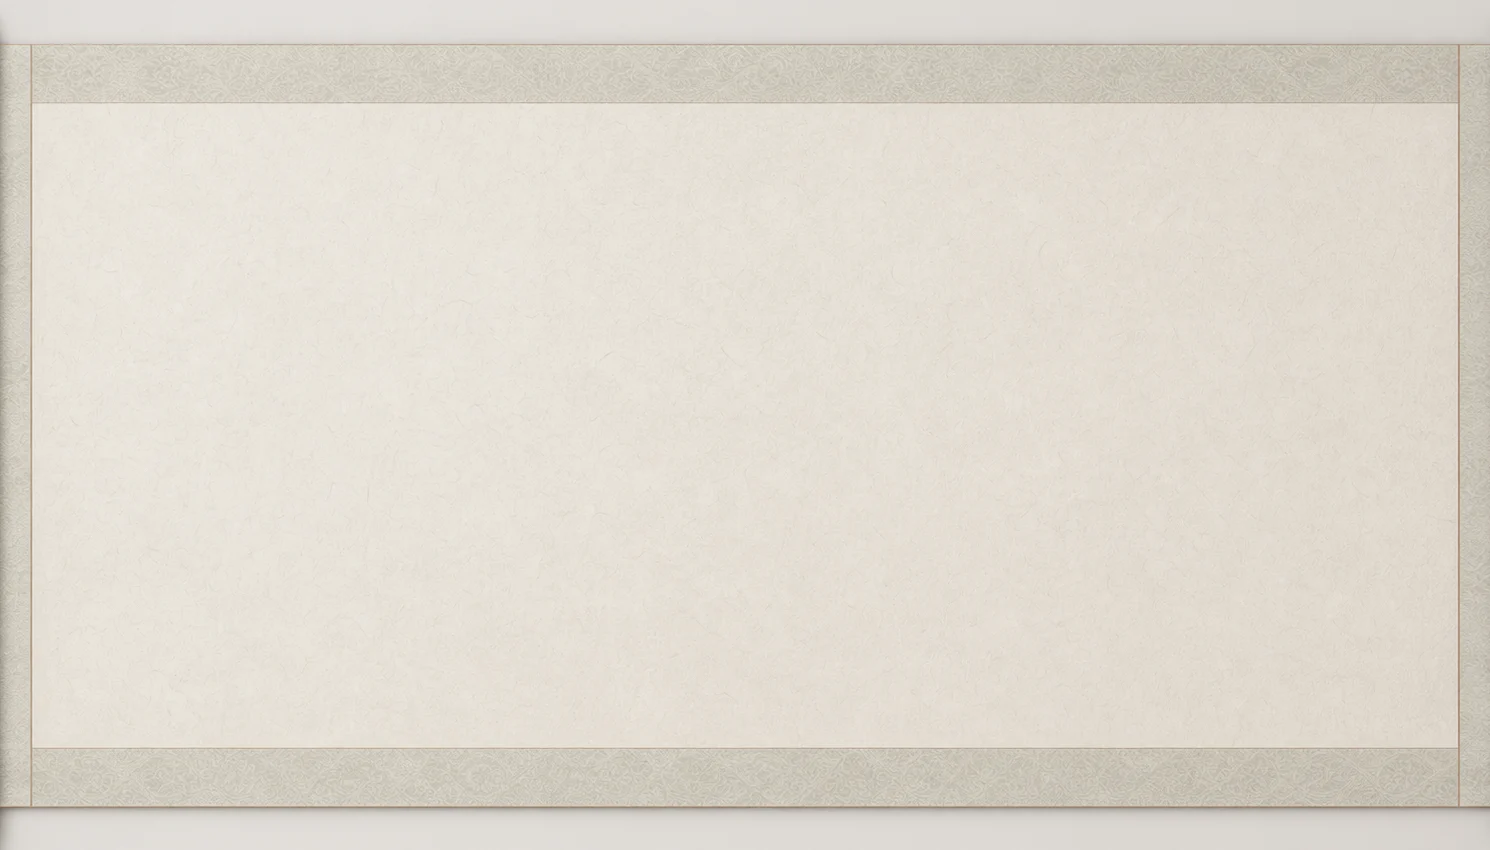
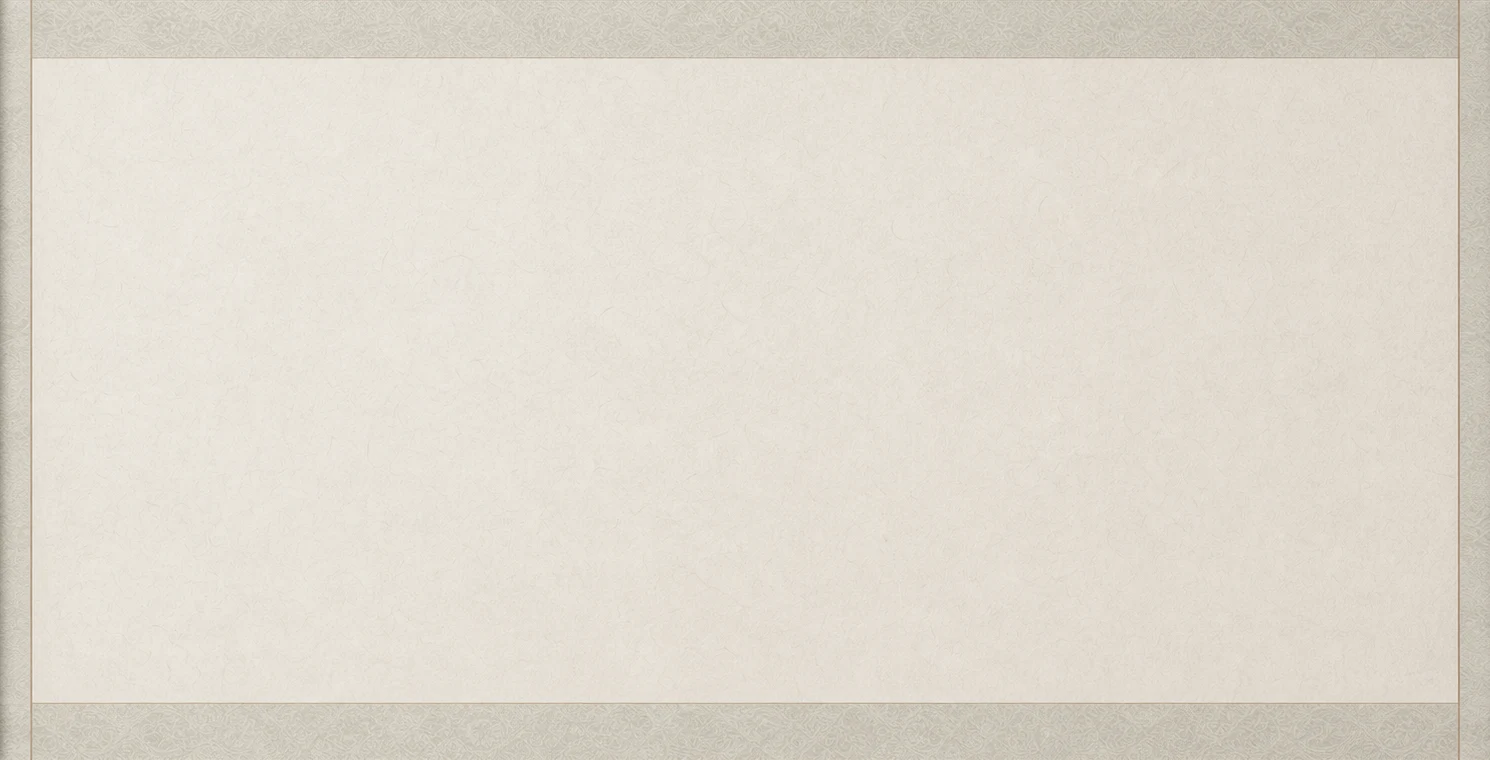
Fix scroll layout and add hexagram detail interactions

Changed region(s): [[0.0, 0.8776, 1.0, 1.0], [0.0, 0.0, 1.0, 0.1211]]

diff --git a/liuyao-study-github/app.js b/liuyao-study-github/app.js
@@ -92,86 +92,6 @@ function shuffle(a) { return [...a].sort(() => Math.random() - .5); }
 function setView(view) {
   state.view = view;
   document.querySelectorAll(".view").forEach(el => el.classList.toggle("active", el.id === view));
-
-
-const atlas0718State={palace:"乾",hexagram:0,contrast:0,contrastSide:null};
-const contrast0718Pairs=[
-  ["天地否","地天泰","阴阳不交 · 闭塞阻滞","阴阳交通 · 顺通和合"],
-  ["水火既济","火水未济","当下已成 · 防物极必反","当下未成 · 变化仍在酝酿"],
-  ["山天大畜","风天小畜","长周期积蓄与停留","短暂收敛与蓄力"],
-  ["山地剥","山泽损","从高处剥落下跌","内空、减少与亏损"],
-  ["坎为水","艮为山","险阻、深陷、坑坎","山重、难越、止步"],
-  ["火地晋","地风升","向前晋升，疾病问事防反取","向上晋升，疾病问事防反取"]
-];
-
-function find0718Hexagram(name){
-  for(const palaceKey of course0718.palaceOrder){
-    const index=course0718.palaces[palaceKey].hexagrams.findIndex(item=>item[0]===name);
-    if(index>=0)return {palaceKey,index,item:course0718.palaces[palaceKey].hexagrams[index]};
-  }
-  return null;
-}
-
-function render0718Yao(active=5){
-  const stack=document.querySelector("#yao0718Stack");
-  const inspector=document.querySelector("#yao0718Inspector");
-  if(!stack||!inspector)return;
-  stack.innerHTML=course0718.yao.map(x=>`<button type="button" data-yao0718="${x.n}" class="${x.n===active?"active":""}" style="--yao-delay:${(x.n-1)*.07}s"><i></i><b>${x.n}</b><span>${x.name}</span><small>${x.triad} · ${x.zone}</small></button>`).join("");
-  stack.querySelectorAll("[data-yao0718]").forEach(button=>button.addEventListener("click",()=>render0718Yao(Number(button.dataset.yao0718))));
-  const x=course0718.yao.find(item=>item.n===active);
-  const note=x.n===1?"第一次投掷放在最下方，六次投掷依次向上。":x.n===2?"二爻为贱位，与五爻尊位相对照。":x.n===5?"五爻为尊位，可取君位、中央、大环境或政策层。":"位置之象要随所问事项转换太极点。";
-  inspector.innerHTML=`<span>${x.zone} · ${x.triad}</span><h3>${x.name}</h3><strong>${x.cue}</strong><p>${note}</p>`;
-}
-
-function render0718Palace(palaceKey="乾",activeIndex=0){
-  const tabs=document.querySelector("#scroll0718PalaceTabs");
-  const meta=document.querySelector("#scroll0718PalaceMeta");
-  const grid=document.querySelector("#scroll0718GuaGrid");
-  const content=document.querySelector("#lecture0718 .scroll-atlas-content");
-  if(!tabs||!meta||!grid)return;
-  atlas0718State.palace=palaceKey;atlas0718State.hexagram=activeIndex;
-  const palace=course0718.palaces[palaceKey];
-  tabs.innerHTML=course0718.palaceOrder.map((key,index)=>{const p=course0718.palaces[key];return `<button type="button" data-palace0718="${key}" class="${key===palaceKey?"active":""} ${p.status==="pending-meaning"?"pending":""}"><b>${key}</b><small>${String(index+1).padStart(2,"0")} · ${p.element}${p.status==="pending-meaning"?" · 待补释义":""}</small></button>`}).join("");
-  tabs.querySelectorAll("[data-palace0718]").forEach(button=>button.addEventListener("click",()=>{
-    const next=button.dataset.palace0718;
-    if(next===atlas0718State.palace)return;
-    content?.classList.add("is-switching");
-    setTimeout(()=>{render0718Palace(next,0);requestAnimationFrame(()=>content?.classList.remove("is-switching"));},120);
-  }));
-  meta.innerHTML=`<span>先天序 ${String(course0718.palaceOrder.indexOf(palaceKey)+1).padStart(2,"0")} · 宫五行${palace.element}</span><h3>${palaceKey}宫</h3><strong>${palace.theme}</strong><p>${palace.status==="pending-meaning"?"本宫八卦的卦名、卦象与宫内序位已列入；课堂取象等待陈师下节课补充。":"本宫八卦按固定序位排列。先辨卦象，再记宫位与核心取象。"}</p><em>${course0718.palaceStages.join(" → ")}</em>`;
-  grid.innerHTML=palace.hexagrams.map((h,index)=>`<button type="button" data-gua0718="${index}" class="scroll-gua-card ${index===activeIndex?"active":""} ${palace.status==="pending-meaning"?"pending":""}"><small>${String(index+1).padStart(2,"0")} · ${course0718.palaceStages[index]}</small><span class="scroll-gua-glyph">${h[1]}</span><b>${h[0]}</b><p>${h[2]}</p><i>${palaceKey}宫 · ${palace.element}</i></button>`).join("");
-  grid.querySelectorAll("[data-gua0718]").forEach(button=>button.addEventListener("click",()=>render0718Palace(palaceKey,Number(button.dataset.gua0718))));
-}
-
-function render0718Contrasts(activePair=0,activeSide=null){
-  const tabs=document.querySelector("#scroll0718ContrastTabs");
-  const book=document.querySelector("#scroll0718ContrastBook");
-  if(!tabs||!book)return;
-  atlas0718State.contrast=activePair;atlas0718State.contrastSide=activeSide;
-  tabs.innerHTML=contrast0718Pairs.map((pair,index)=>`<button type="button" data-contrast0718="${index}" class="${index===activePair?"active":""}"><b>${String(index+1).padStart(2,"0")}</b><span>${pair[0]} / ${pair[1]}</span></button>`).join("");
-  tabs.querySelectorAll("[data-contrast0718]").forEach(button=>button.addEventListener("click",()=>render0718Contrasts(Number(button.dataset.contrast0718),null)));
-  const pair=contrast0718Pairs[activePair];
-  const left=find0718Hexagram(pair[0]),right=find0718Hexagram(pair[1]);
-  const page=(info,side,cue)=>`<button type="button" data-contrast-side="${side}" class="scroll-contrast-page ${activeSide===side?"active":""} ${activeSide&&activeSide!==side?"dim":""}"><span class="scroll-contrast-glyph">${info.item[1]}</span><div><small>${info.palaceKey}宫 · 第${String(info.index+1).padStart(2,"0")}卦</small><h3>${info.item[0]}</h3><strong>${cue}</strong><p>${info.item[2]}</p></div></button>`;
-  book.innerHTML=`${page(left,"left",pair[2])}<i>⇄</i>${page(right,"right",pair[3])}`;
-  book.querySelectorAll("[data-contrast-side]").forEach(button=>button.addEventListener("click",event=>{event.stopPropagation();const side=button.dataset.contrastSide;render0718Contrasts(activePair,activeSide===side?null:side)}));
-  book.addEventListener("click",()=>render0718Contrasts(activePair,null),{once:true});
-}
-
-function replay0718Scroll(){
-  const shell=document.querySelector("#scroll0718Shell");
-  if(!shell)return;
-  shell.classList.remove("is-unrolling");
-  void shell.offsetWidth;
-  shell.classList.add("is-unrolling");
-}
-
-function render0718Atlas(){
-  render0718Yao(5);
-  render0718Palace(atlas0718State.palace,atlas0718State.hexagram);
-  render0718Contrasts(atlas0718State.contrast,atlas0718State.contrastSide);
-}
-
 document.querySelectorAll(".nav-item").forEach(el => el.classList.toggle("active", el.dataset.view === view));
   window.scrollTo({ top:0, behavior:"smooth" });
   if (view === "training" && !state.quiz) createQuiz();
@@ -969,7 +889,7 @@ function initImmersiveMotion(){
 
 
 
-const atlas0718State={palace:"乾",hexagram:0,contrast:0,contrastSide:null};
+const atlas0718State={palace:"乾",hexagram:null,contrast:0,contrastSide:null};
 const contrast0718Pairs=[
   ["天地否","地天泰","阴阳不交 · 闭塞阻滞","阴阳交通 · 顺通和合"],
   ["水火既济","火水未济","当下已成 · 防物极必反","当下未成 · 变化仍在酝酿"],
@@ -998,7 +918,7 @@ function render0718Yao(active=5){
   inspector.innerHTML=`<span>${x.zone} · ${x.triad}</span><h3>${x.name}</h3><strong>${x.cue}</strong><p>${note}</p>`;
 }
 
-function render0718Palace(palaceKey="乾",activeIndex=0){
+function render0718Palace(palaceKey="乾",activeIndex=null){
   const tabs=document.querySelector("#scroll0718PalaceTabs");
   const meta=document.querySelector("#scroll0718PalaceMeta");
   const grid=document.querySelector("#scroll0718GuaGrid");
@@ -1009,12 +929,19 @@ function render0718Palace(palaceKey="乾",activeIndex=0){
   tabs.innerHTML=course0718.palaceOrder.map((key,index)=>{const p=course0718.palaces[key];return `<button type="button" data-palace0718="${key}" class="${key===palaceKey?"active":""} ${p.status==="pending-meaning"?"pending":""}"><b>${key}</b><small>${String(index+1).padStart(2,"0")} · ${p.element}${p.status==="pending-meaning"?" · 待补释义":""}</small></button>`}).join("");
   tabs.querySelectorAll("[data-palace0718]").forEach(button=>button.addEventListener("click",()=>{
     const next=button.dataset.palace0718;
-    if(next===atlas0718State.palace)return;
     content?.classList.add("is-switching");
-    setTimeout(()=>{render0718Palace(next,0);requestAnimationFrame(()=>content?.classList.remove("is-switching"));},120);
+    setTimeout(()=>{render0718Palace(next,null);requestAnimationFrame(()=>content?.classList.remove("is-switching"));},120);
   }));
-  meta.innerHTML=`<span>先天序 ${String(course0718.palaceOrder.indexOf(palaceKey)+1).padStart(2,"0")} · 宫五行${palace.element}</span><h3>${palaceKey}宫</h3><strong>${palace.theme}</strong><p>${palace.status==="pending-meaning"?"本宫八卦的卦名、卦象与宫内序位已列入；课堂取象等待陈师下节课补充。":"本宫八卦按固定序位排列。先辨卦象，再记宫位与核心取象。"}</p><em>${course0718.palaceStages.join(" → ")}</em>`;
-  grid.innerHTML=palace.hexagrams.map((h,index)=>`<button type="button" data-gua0718="${index}" class="scroll-gua-card ${index===activeIndex?"active":""} ${palace.status==="pending-meaning"?"pending":""}"><small>${String(index+1).padStart(2,"0")} · ${course0718.palaceStages[index]}</small><span class="scroll-gua-glyph">${h[1]}</span><b>${h[0]}</b><p>${h[2]}</p><i>${palaceKey}宫 · ${palace.element}</i></button>`).join("");
+  if(Number.isInteger(activeIndex)){
+    const h=palace.hexagrams[activeIndex];
+    const stage=course0718.palaceStages[activeIndex];
+    meta.classList.add("is-hexagram-detail");
+    meta.innerHTML=`<span class="scroll-detail-kicker">单卦取象 · ${palaceKey}宫 · ${stage}</span><div class="scroll-detail-glyph" aria-hidden="true">${h[1]}</div><h3>${h[0]}</h3><strong>${h[2]}</strong><div class="scroll-detail-block"><b>意象提示</b><p>${h[3]}</p></div><em>${palaceKey}宫 · 宫五行${palace.element} · 第${String(activeIndex+1).padStart(2,"0")}卦</em>`;
+  }else{
+    meta.classList.remove("is-hexagram-detail");
+    meta.innerHTML=`<span>先天序 ${String(course0718.palaceOrder.indexOf(palaceKey)+1).padStart(2,"0")} · 宫五行${palace.element}</span><h3>${palaceKey}宫</h3><strong>${palace.theme}</strong><p>${palace.status==="pending-meaning"?"本宫八卦的卦名、卦象与宫内序位已列入；课堂取象等待陈师下节课补充。":"本宫八卦按固定序位排列。先辨卦象，再记宫位与核心取象。"}</p><small>点击右侧任一卦，可展开该卦的核心解释与意象提示。</small><em>${course0718.palaceStages.join(" → ")}</em>`;
+  }
+  grid.innerHTML=palace.hexagrams.map((h,index)=>`<button type="button" data-gua0718="${index}" class="scroll-gua-card ${index===activeIndex?"active":""} ${palace.status==="pending-meaning"?"pending":""}" style="--card-delay:${index*.045}s"><small>${String(index+1).padStart(2,"0")} · ${course0718.palaceStages[index]}</small><span class="scroll-gua-glyph">${h[1]}</span><b>${h[0]}</b><p>${h[2]}</p><i>${palaceKey}宫 · ${palace.element}</i></button>`).join("");
   grid.querySelectorAll("[data-gua0718]").forEach(button=>button.addEventListener("click",()=>render0718Palace(palaceKey,Number(button.dataset.gua0718))));
 }
 

diff --git a/liuyao-study-github/styles.css b/liuyao-study-github/styles.css
@@ -337,7 +337,7 @@ button,.branch-card,.map-switcher,.relationship-lab{position:relative;overflow:h
 .atlas-yao-layout{display:grid;grid-template-columns:minmax(350px,.9fr) minmax(390px,1.1fr);gap:clamp(28px,6vw,92px);align-items:center;padding:clamp(30px,5vw,70px);border:1px solid var(--scroll-line);background:linear-gradient(135deg,rgba(255,255,255,.5),rgba(117,132,119,.07));box-shadow:0 30px 80px rgba(66,55,39,.09)}
 #yao0718Stack{display:flex;flex-direction:column;gap:11px}.yao-stack button[data-yao0718]{position:relative;display:grid;grid-template-columns:minmax(125px,1fr) 40px 70px minmax(120px,1fr);align-items:center;gap:16px;min-height:62px;padding:8px 16px;border:1px solid var(--scroll-line);background:rgba(248,244,235,.68);text-align:left;overflow:hidden;transition:transform .28s ease,border-color .28s,background .28s}.yao-stack button[data-yao0718]::before{content:"";position:absolute;inset:0 auto 0 0;width:4px;background:var(--scroll-red);transform:scaleY(0);transition:transform .28s}.yao-stack button[data-yao0718] i{display:block;height:10px;background:var(--scroll-ink);mask:linear-gradient(90deg,#000 0 44%,transparent 44% 56%,#000 56%);-webkit-mask:linear-gradient(90deg,#000 0 44%,transparent 44% 56%,#000 56%)}.yao-stack button[data-yao0718]:nth-child(odd) i{mask:none;-webkit-mask:none}.yao-stack button[data-yao0718] b{color:var(--scroll-red);font-size:12px}.yao-stack button[data-yao0718] span{font:700 22px "Songti SC"}.yao-stack button[data-yao0718] small{color:var(--muted)}.yao-stack button[data-yao0718]:hover,.yao-stack button[data-yao0718].active{transform:translateX(10px);border-color:rgba(167,68,50,.45);background:#f7f1e5}.yao-stack button[data-yao0718].active::before{transform:scaleY(1)}.yao-inspector{min-height:360px;display:flex;flex-direction:column;justify-content:center;padding:clamp(30px,5vw,68px);position:relative;background:var(--scroll-ink);color:#f7f1e7;box-shadow:24px 24px 0 rgba(117,132,119,.16)}.yao-inspector::after{content:"爻";position:absolute;right:24px;bottom:-20px;font:900 150px/1 "Songti SC";color:rgba(255,255,255,.035)}.yao-inspector>span{color:#d99b89;letter-spacing:.18em}.yao-inspector h3{font-size:clamp(46px,6vw,76px);margin:20px 0 10px}.yao-inspector strong{font-size:21px}.yao-inspector p{max-width:480px;color:#cfc5b5;line-height:1.9}
 
-.scroll-atlas-shell{position:relative;min-height:790px;margin-top:18px;isolation:isolate;overflow:visible}.scroll-unroll-mask{position:absolute;inset:0 48px;overflow:hidden;clip-path:inset(0 0 0 0);filter:drop-shadow(0 28px 42px rgba(52,43,30,.16));z-index:1}.scroll-paper{position:absolute;inset:0;background:#ede7da url("./assets/scroll-paper-0718.webp") center/100% 100% no-repeat;border-block:1px solid rgba(89,76,57,.26)}.scroll-paper::after{content:"";position:absolute;inset:10px 18px;border:1px solid rgba(116,126,111,.24);box-shadow:inset 0 0 70px rgba(115,98,72,.09);pointer-events:none}.scroll-atlas-content{position:relative;z-index:2;min-height:790px;padding:clamp(40px,4.6vw,68px) clamp(42px,5.5vw,82px);color:var(--scroll-ink)}
+.scroll-atlas-shell{position:relative;margin-top:18px;isolation:isolate;overflow:visible}.scroll-unroll-mask{position:relative;margin:0 48px;overflow:hidden;clip-path:inset(0 0 0 0);filter:drop-shadow(0 28px 42px rgba(52,43,30,.16));z-index:1}.scroll-paper{position:absolute;inset:0;background:#ede7da url("./assets/scroll-paper-0718.webp") center/100% 100% no-repeat;border-block:1px solid rgba(89,76,57,.26)}.scroll-paper::after{content:"";position:absolute;inset:10px 18px;border:1px solid rgba(116,126,111,.24);box-shadow:inset 0 0 70px rgba(115,98,72,.09);pointer-events:none}.scroll-atlas-content{position:relative;z-index:2;padding:clamp(40px,4.6vw,68px) clamp(42px,5.5vw,82px);color:var(--scroll-ink)}
 .scroll-roller{position:absolute;top:-14px;bottom:-14px;width:74px;z-index:4;background-position:center;background-size:100% 100%;background-repeat:no-repeat;filter:drop-shadow(0 18px 15px rgba(42,34,25,.26));pointer-events:none}.scroll-roller-left{left:12px;background-image:url("./assets/scroll-left-roller-0718.png")}.scroll-roller-right{right:12px;background-image:url("./assets/scroll-right-roller-0718.png")}
 .scroll-atlas-shell.is-unrolling .scroll-unroll-mask{animation:scroll-mask-open 1.58s cubic-bezier(.62,.02,.18,1) both}.scroll-atlas-shell.is-unrolling .scroll-roller-left{animation:scroll-left-open 1.58s cubic-bezier(.62,.02,.18,1) both}.scroll-atlas-shell.is-unrolling .scroll-roller-right{animation:scroll-right-open 1.58s cubic-bezier(.62,.02,.18,1) both}
 @keyframes scroll-mask-open{0%{clip-path:inset(0 50% 0 50%)}100%{clip-path:inset(0 0 0 0)}}
@@ -345,12 +345,12 @@ button,.branch-card,.map-switcher,.relationship-lab{position:relative;overflow:h
 @keyframes scroll-right-open{0%{right:calc(50% - 37px)}100%{right:12px}}
 .scroll-atlas-heading{display:flex;align-items:end;justify-content:space-between;gap:28px;padding-bottom:22px;border-bottom:1px solid rgba(77,68,56,.42)}.scroll-atlas-heading span,.scroll-palace-meta>span{color:var(--scroll-red);font-size:11px;font-weight:800;letter-spacing:.18em}.scroll-atlas-heading h3{font-size:clamp(30px,3.3vw,48px);margin-top:8px}.scroll-atlas-heading p{max-width:430px;color:var(--muted);line-height:1.7;text-align:right}
 .scroll-palace-tabs{display:grid;grid-template-columns:repeat(8,1fr);margin:16px 0 22px;border-block:1px solid var(--scroll-line)}.scroll-palace-tabs button{min-height:76px;padding:12px 8px;border:0;border-right:1px solid var(--scroll-line);background:rgba(255,255,255,.15);transition:background .25s,color .25s,transform .25s}.scroll-palace-tabs button:last-child{border-right:0}.scroll-palace-tabs b,.scroll-palace-tabs small{display:block}.scroll-palace-tabs b{font:800 24px "Songti SC"}.scroll-palace-tabs small{margin-top:5px;color:var(--muted);font-size:9px;white-space:nowrap}.scroll-palace-tabs button:hover{background:rgba(117,132,119,.12)}.scroll-palace-tabs button.active{background:var(--scroll-ink);color:#f8f1e6;transform:translateY(-3px);box-shadow:0 12px 24px rgba(42,35,27,.16)}.scroll-palace-tabs button.active small{color:#d9cdbd}.scroll-palace-tabs button.pending:not(.active) small{color:var(--scroll-red)}
-.scroll-palace-layout{display:grid;grid-template-columns:245px 1fr;gap:28px;align-items:start}.scroll-palace-meta{min-height:490px;padding:34px 28px;border-right:1px solid rgba(77,68,56,.25);display:flex;flex-direction:column}.scroll-palace-meta h3{font-size:58px;margin:18px 0 8px}.scroll-palace-meta strong{font:700 19px "Songti SC"}.scroll-palace-meta p{color:var(--muted);line-height:1.75}.scroll-palace-meta em{margin-top:auto;padding-top:22px;border-top:1px solid var(--scroll-red);color:var(--scroll-red);font-style:normal;font-size:11px;line-height:1.8}
-.scroll-gua-grid{display:grid;grid-template-columns:repeat(4,minmax(0,1fr));gap:12px}.scroll-gua-card{position:relative;min-height:235px;padding:16px 16px 14px;border:1px solid rgba(76,66,52,.17);background:rgba(249,246,238,.56);text-align:left;overflow:hidden;transition:transform .3s cubic-bezier(.2,.75,.2,1),box-shadow .3s,background .3s}.scroll-gua-card::after{content:"";position:absolute;left:0;right:100%;bottom:0;height:3px;background:var(--scroll-red);transition:right .35s}.scroll-gua-card:hover,.scroll-gua-card.active{transform:translateY(-6px);background:rgba(250,247,239,.92);box-shadow:0 18px 32px rgba(55,45,32,.13)}.scroll-gua-card.active::after,.scroll-gua-card:hover::after{right:0}.scroll-gua-card>small{display:block;color:var(--scroll-red);font-weight:800;font-size:10px}.scroll-gua-glyph{display:block;font-family:"Apple Symbols","Segoe UI Symbol",sans-serif;font-size:70px;line-height:1;margin:15px 0 10px}.scroll-gua-card>b{display:block;font:800 20px "Songti SC"}.scroll-gua-card p{min-height:36px;margin:7px 0;color:var(--muted);font-size:12px;line-height:1.5}.scroll-gua-card i{font-style:normal;color:var(--scroll-green);font-size:10px}.scroll-gua-card.pending p{color:var(--scroll-red)}
+.scroll-palace-layout{display:grid;grid-template-columns:265px 1fr;gap:28px;align-items:stretch}.scroll-palace-meta{min-height:490px;height:100%;padding:34px 28px;border-right:1px solid rgba(77,68,56,.25);display:flex;flex-direction:column}.scroll-palace-meta h3{font-size:clamp(40px,4.2vw,58px);margin:18px 0 8px}.scroll-palace-meta strong{font:700 19px "Songti SC";line-height:1.55}.scroll-palace-meta p{color:var(--muted);line-height:1.75}.scroll-palace-meta>small{display:block;margin-top:16px;color:var(--scroll-green);line-height:1.65}.scroll-palace-meta em{margin-top:auto;padding-top:22px;border-top:1px solid var(--scroll-red);color:var(--scroll-red);font-style:normal;font-size:11px;line-height:1.8}.scroll-detail-glyph{font-family:"Apple Symbols","Segoe UI Symbol",sans-serif;font-size:82px;line-height:1;margin:18px 0 2px;color:var(--scroll-ink);filter:drop-shadow(0 8px 13px rgba(45,37,28,.12));animation:gua-glyph-breathe 3.4s ease-in-out infinite}.scroll-palace-meta.is-hexagram-detail h3{margin-top:10px}.scroll-detail-block{margin:22px 0;padding:18px 0;border-block:1px solid var(--scroll-line)}.scroll-detail-block b{display:block;color:var(--scroll-red);font-size:11px;letter-spacing:.16em}.scroll-detail-block p{margin:10px 0 0;color:var(--muted)}
+.scroll-gua-grid{display:grid;grid-template-columns:repeat(4,minmax(0,1fr));gap:12px}.scroll-gua-card{position:relative;min-height:235px;padding:16px 16px 14px;border:1px solid rgba(76,66,52,.17);background:rgba(249,246,238,.56);text-align:left;overflow:hidden;transition:transform .3s cubic-bezier(.2,.75,.2,1),box-shadow .3s,background .3s;animation:gua-card-enter .46s cubic-bezier(.2,.72,.2,1) both;animation-delay:var(--card-delay,0s)}.scroll-gua-card::after{content:"";position:absolute;left:0;right:100%;bottom:0;height:3px;background:var(--scroll-red);transition:right .35s}.scroll-gua-card:hover,.scroll-gua-card.active{transform:translateY(-6px);background:rgba(250,247,239,.92);box-shadow:0 18px 32px rgba(55,45,32,.13)}.scroll-gua-card.active::after,.scroll-gua-card:hover::after{right:0}.scroll-gua-card>small{display:block;color:var(--scroll-red);font-weight:800;font-size:10px}.scroll-gua-glyph{display:block;font-family:"Apple Symbols","Segoe UI Symbol",sans-serif;font-size:70px;line-height:1;margin:15px 0 10px;transform-origin:left center;transition:transform .34s cubic-bezier(.2,.8,.2,1),color .3s;animation:gua-glyph-breathe 3.8s ease-in-out infinite;animation-delay:calc(var(--card-delay,0s) + .35s)}.scroll-gua-card:hover .scroll-gua-glyph,.scroll-gua-card.active .scroll-gua-glyph{transform:translateX(7px) scale(1.055);color:var(--scroll-red)}.scroll-gua-card>b{display:block;font:800 20px "Songti SC"}.scroll-gua-card p{min-height:36px;margin:7px 0;color:var(--muted);font-size:12px;line-height:1.5}.scroll-gua-card i{font-style:normal;color:var(--scroll-green);font-size:10px}.scroll-gua-card.pending p{color:var(--scroll-red)}@keyframes gua-card-enter{from{clip-path:inset(18% 0 0);filter:blur(2px)}to{clip-path:inset(0);filter:blur(0)}}@keyframes gua-glyph-breathe{0%,100%{filter:drop-shadow(0 0 0 rgba(167,68,50,0))}50%{filter:drop-shadow(0 7px 10px rgba(167,68,50,.2))}}
 .scroll-atlas-content::after{content:"";position:absolute;z-index:8;inset:0;background:linear-gradient(90deg,transparent,rgba(104,116,103,.22),rgba(167,68,50,.12),transparent);transform:scaleX(0);transform-origin:center;pointer-events:none}.scroll-atlas-content.is-switching::after{animation:atlas-ink-wipe .24s ease both}@keyframes atlas-ink-wipe{0%{transform:scaleX(0)}52%{transform:scaleX(1)}100%{transform:scaleX(0)}}
 
 .scroll-contrast-tabs{display:grid;grid-template-columns:repeat(6,1fr);border-block:1px solid var(--scroll-line);margin-bottom:22px}.scroll-contrast-tabs button{border:0;border-right:1px solid var(--scroll-line);background:transparent;min-height:78px;padding:12px;text-align:left}.scroll-contrast-tabs button:last-child{border:0}.scroll-contrast-tabs b,.scroll-contrast-tabs span{display:block}.scroll-contrast-tabs b{color:var(--scroll-red);font-size:10px}.scroll-contrast-tabs span{margin-top:8px;font:700 14px "Songti SC"}.scroll-contrast-tabs button.active{background:var(--scroll-ink);color:#f7f0e5}.scroll-contrast-book{display:grid;grid-template-columns:1fr 54px 1fr;align-items:stretch;min-height:360px;padding:18px;background:linear-gradient(90deg,rgba(117,132,119,.08),rgba(255,255,255,.56) 50%,rgba(167,68,50,.06));border:1px solid var(--scroll-line);box-shadow:var(--shadow)}.scroll-contrast-book>i{display:grid;place-items:center;font:400 28px "Songti SC";color:var(--scroll-red)}.scroll-contrast-page{display:grid;grid-template-columns:150px 1fr;align-items:center;gap:25px;border:0;background:rgba(248,244,235,.62);padding:32px;text-align:left;transition:transform .3s,filter .3s,background .3s}.scroll-contrast-page:first-child{border-right:1px solid var(--scroll-line)}.scroll-contrast-page:hover,.scroll-contrast-page.active{transform:scale(1.018);background:#f9f4e9}.scroll-contrast-page.dim{filter:grayscale(.65);opacity:.4}.scroll-contrast-glyph{font-family:"Apple Symbols","Segoe UI Symbol",sans-serif;font-size:112px;line-height:1}.scroll-contrast-page small{color:var(--scroll-green);font-weight:700}.scroll-contrast-page h3{font-size:34px;margin:10px 0}.scroll-contrast-page strong{display:block;color:var(--scroll-red);margin-bottom:10px}.scroll-contrast-page p{color:var(--muted);line-height:1.7}
 
-@media(max-width:1080px){.atlas-yao-layout{grid-template-columns:1fr}.scroll-atlas-shell,.scroll-atlas-content{min-height:1050px}.scroll-palace-layout{grid-template-columns:1fr}.scroll-palace-meta{min-height:auto;border-right:0;border-bottom:1px solid var(--scroll-line);display:grid;grid-template-columns:1fr 1fr;gap:8px 28px}.scroll-palace-meta em{grid-column:1/-1}.scroll-gua-grid{grid-template-columns:repeat(4,minmax(0,1fr))}.scroll-contrast-tabs{grid-template-columns:repeat(3,1fr)}.scroll-contrast-page{grid-template-columns:110px 1fr}.scroll-contrast-glyph{font-size:86px}}
-@media(max-width:760px){#lecture0718{padding-inline:14px}.atlas-yao-layout{padding:18px}.yao-stack button[data-yao0718]{grid-template-columns:84px 24px 52px 1fr;gap:9px;padding-inline:10px}.yao-stack button[data-yao0718] span{font-size:18px}.yao-stack button[data-yao0718] small{font-size:10px}.scroll-atlas-shell,.scroll-atlas-content{min-height:1510px}.scroll-unroll-mask{inset-inline:15px}.scroll-roller{width:40px}.scroll-roller-left{left:-5px}.scroll-roller-right{right:-5px}@keyframes scroll-left-open{0%{left:calc(50% - 20px)}100%{left:-5px}}@keyframes scroll-right-open{0%{right:calc(50% - 20px)}100%{right:-5px}}.scroll-atlas-content{padding:30px 27px}.scroll-atlas-heading{display:block}.scroll-atlas-heading p{text-align:left}.scroll-palace-tabs{grid-template-columns:repeat(4,1fr)}.scroll-palace-tabs button{border-bottom:1px solid var(--scroll-line)}.scroll-palace-meta{display:block;padding:20px}.scroll-palace-meta h3{font-size:42px}.scroll-palace-meta em{display:block;margin-top:18px}.scroll-gua-grid{grid-template-columns:repeat(2,minmax(0,1fr));gap:8px}.scroll-gua-card{min-height:215px;padding:12px}.scroll-gua-glyph{font-size:58px}.scroll-gua-card>b{font-size:17px}.scroll-contrast-tabs{grid-template-columns:repeat(2,1fr)}.scroll-contrast-book{display:block;padding:10px}.scroll-contrast-book>i{height:44px}.scroll-contrast-page{grid-template-columns:88px 1fr;padding:20px}.scroll-contrast-page:first-child{border-right:0;border-bottom:1px solid var(--scroll-line)}.scroll-contrast-glyph{font-size:72px}.scroll-contrast-page h3{font-size:26px}}
-@media(prefers-reduced-motion:reduce){.scroll-atlas-shell.is-unrolling .scroll-unroll-mask,.scroll-atlas-shell.is-unrolling .scroll-roller{animation-duration:.01ms!important}.scroll-gua-card,.scroll-contrast-page,.yao-stack button[data-yao0718]{transition:none!important}}
+@media(max-width:1080px){.atlas-yao-layout{grid-template-columns:1fr}.scroll-palace-layout{grid-template-columns:1fr}.scroll-palace-meta{min-height:auto;height:auto;border-right:0;border-bottom:1px solid var(--scroll-line);display:grid;grid-template-columns:1fr 1fr;gap:8px 28px}.scroll-palace-meta em{grid-column:1/-1}.scroll-detail-glyph{grid-row:2/5;font-size:72px}.scroll-detail-block{margin:10px 0}.scroll-gua-grid{grid-template-columns:repeat(4,minmax(0,1fr))}.scroll-contrast-tabs{grid-template-columns:repeat(3,1fr)}.scroll-contrast-page{grid-template-columns:110px 1fr}.scroll-contrast-glyph{font-size:86px}}
+@media(max-width:760px){#lecture0718{padding-inline:14px}.atlas-yao-layout{padding:18px}.yao-stack button[data-yao0718]{grid-template-columns:84px 24px 52px 1fr;gap:9px;padding-inline:10px}.yao-stack button[data-yao0718] span{font-size:18px}.yao-stack button[data-yao0718] small{font-size:10px}.scroll-unroll-mask{margin-inline:15px}.scroll-roller{width:40px}.scroll-roller-left{left:-5px}.scroll-roller-right{right:-5px}@keyframes scroll-left-open{0%{left:calc(50% - 20px)}100%{left:-5px}}@keyframes scroll-right-open{0%{right:calc(50% - 20px)}100%{right:-5px}}.scroll-atlas-content{padding:30px 27px}.scroll-atlas-heading{display:block}.scroll-atlas-heading p{text-align:left}.scroll-palace-tabs{grid-template-columns:repeat(4,1fr)}.scroll-palace-tabs button{border-bottom:1px solid var(--scroll-line)}.scroll-palace-meta{display:block;padding:20px}.scroll-palace-meta h3{font-size:42px}.scroll-palace-meta em{display:block;margin-top:18px}.scroll-detail-glyph{font-size:66px}.scroll-gua-grid{grid-template-columns:repeat(2,minmax(0,1fr));gap:8px}.scroll-gua-card{min-height:215px;padding:12px}.scroll-gua-glyph{font-size:58px}.scroll-gua-card>b{font-size:17px}.scroll-contrast-tabs{grid-template-columns:repeat(2,1fr)}.scroll-contrast-book{display:block;padding:10px}.scroll-contrast-book>i{height:44px}.scroll-contrast-page{grid-template-columns:88px 1fr;padding:20px}.scroll-contrast-page:first-child{border-right:0;border-bottom:1px solid var(--scroll-line)}.scroll-contrast-glyph{font-size:72px}.scroll-contrast-page h3{font-size:26px}}
+@media(prefers-reduced-motion:reduce){.scroll-atlas-shell.is-unrolling .scroll-unroll-mask,.scroll-atlas-shell.is-unrolling .scroll-roller{animation-duration:.01ms!important}.scroll-gua-card,.scroll-gua-glyph,.scroll-detail-glyph,.scroll-contrast-page,.yao-stack button[data-yao0718]{animation:none!important;transition:none!important}}

diff --git a/liuyao-study-github/index.html b/liuyao-study-github/index.html
@@ -6,7 +6,7 @@
   <meta name="description" content="以陈师讲义为主线，结合古籍校注、万物类象与主动回忆训练的六爻学习网站。">
   <title>爻象研习 · 六爻学习系统｜旺衰、地支关系与八宫卦谱</title>
   <link rel="icon" href="data:,">
-  <link rel="stylesheet" href="./styles.css?v=20260721-scroll-v1">
+  <link rel="stylesheet" href="./styles.css?v=20260722-detail-v2">
 </head>
 <body>
   <div class="paper-noise"></div>
@@ -502,11 +502,11 @@
     <aside><button class="drawer-close" aria-label="关闭">×</button><div id="drawerContent"></div></aside>
   </div>
   <footer><span>爻象研习 · 六爻知识体系</span><p>关系 → 结构 → 力量 → 类象 → 验证</p></footer>
-  <script src="./data.js?v=20260721-scroll-v1"></script>
-  <script src="./course-0718.js?v=20260721-scroll-v1"></script>
+  <script src="./data.js?v=20260722-detail-v2"></script>
+  <script src="./course-0718.js?v=20260722-detail-v2"></script>
   <script src="./vendor/jquery-3.7.1.min.js"></script>
   <script src="./vendor/jquery.ripples-min.js"></script>
-  <script src="./app.js?v=20260721-scroll-v1"></script>
+  <script src="./app.js?v=20260722-detail-v2"></script>
   <script>
     window.addEventListener('load', function(){
       setTimeout(function(){